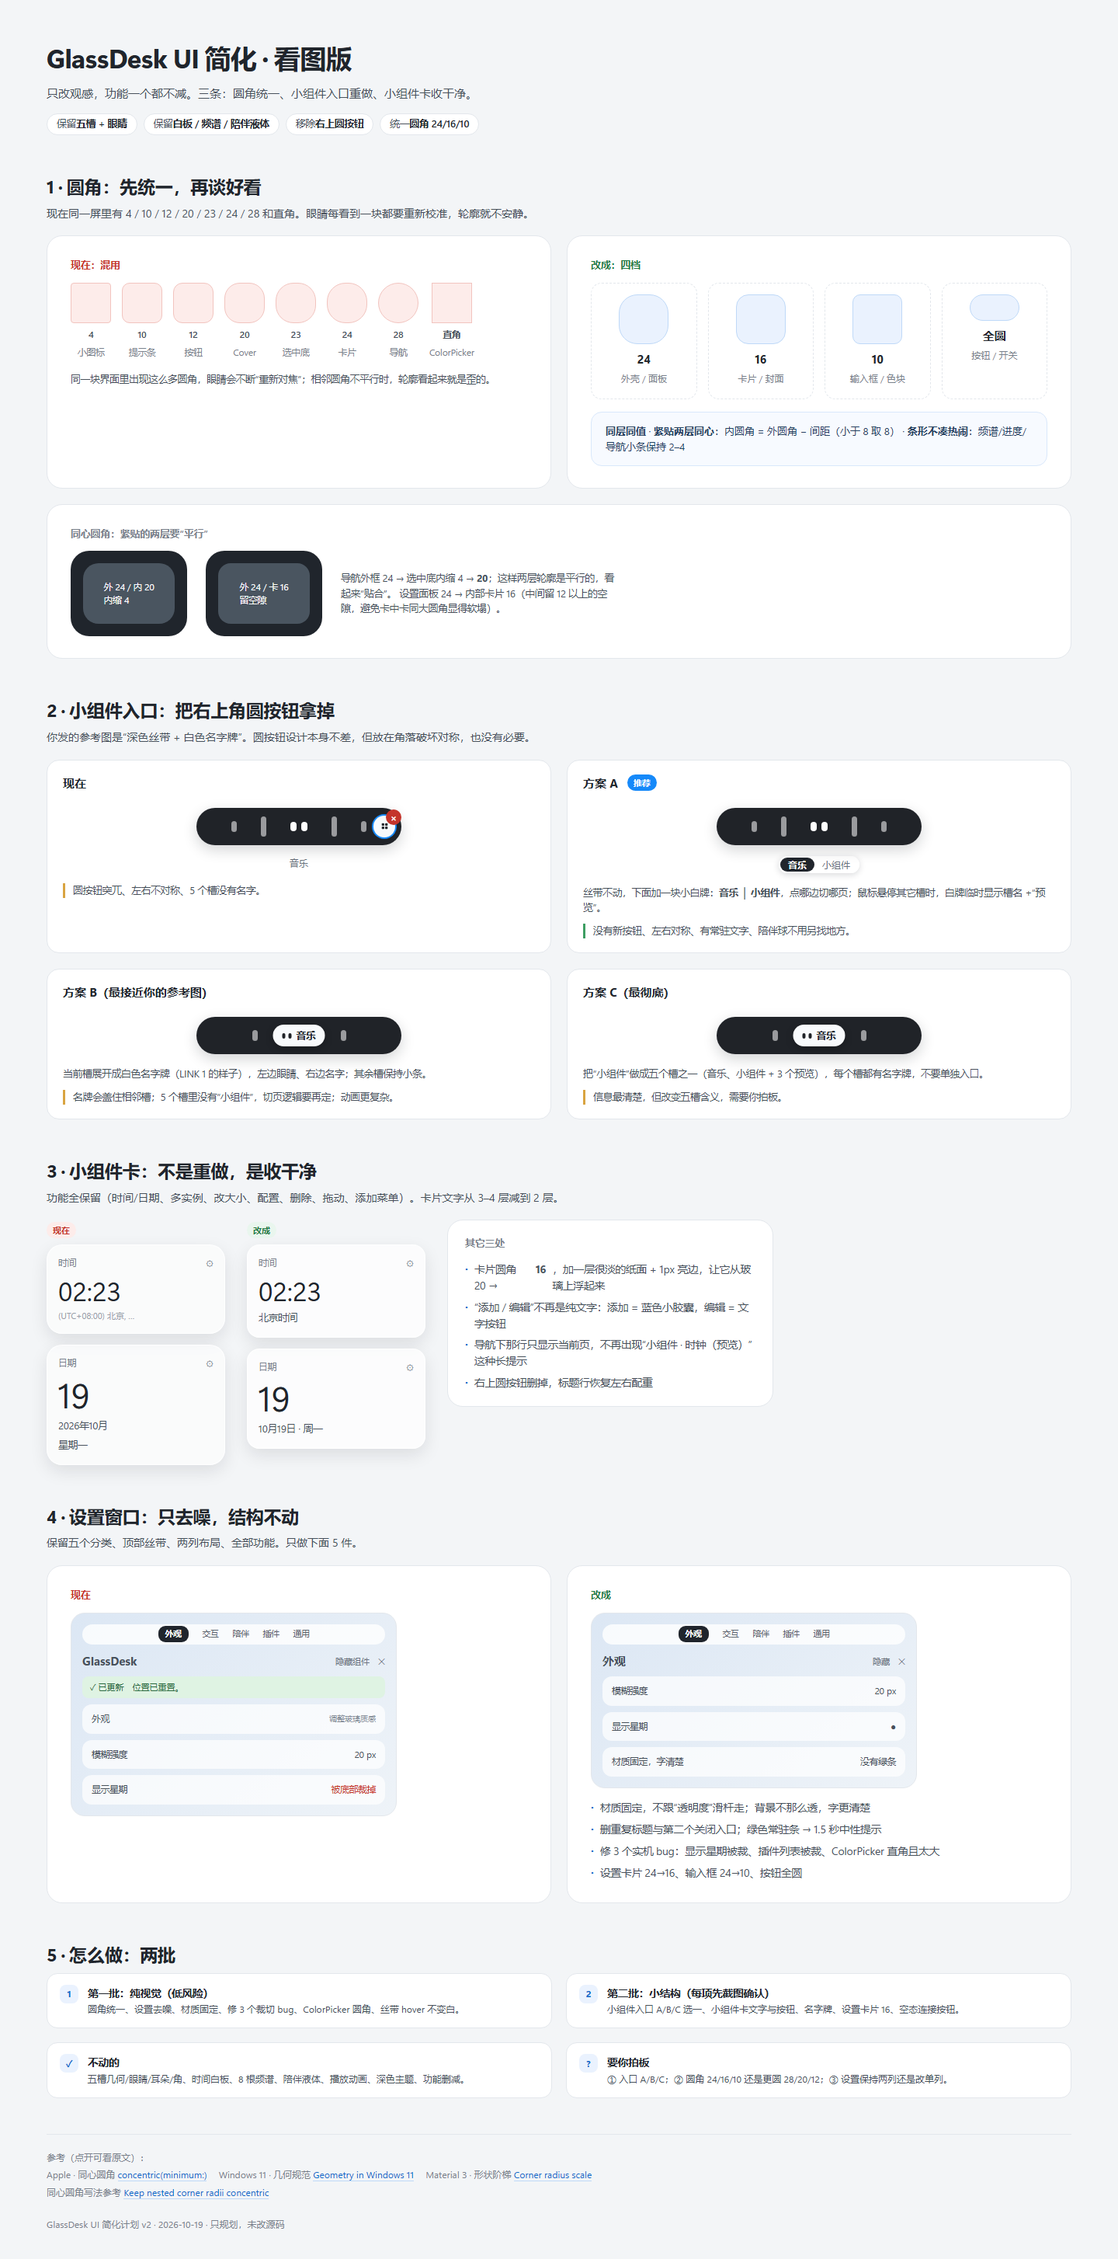
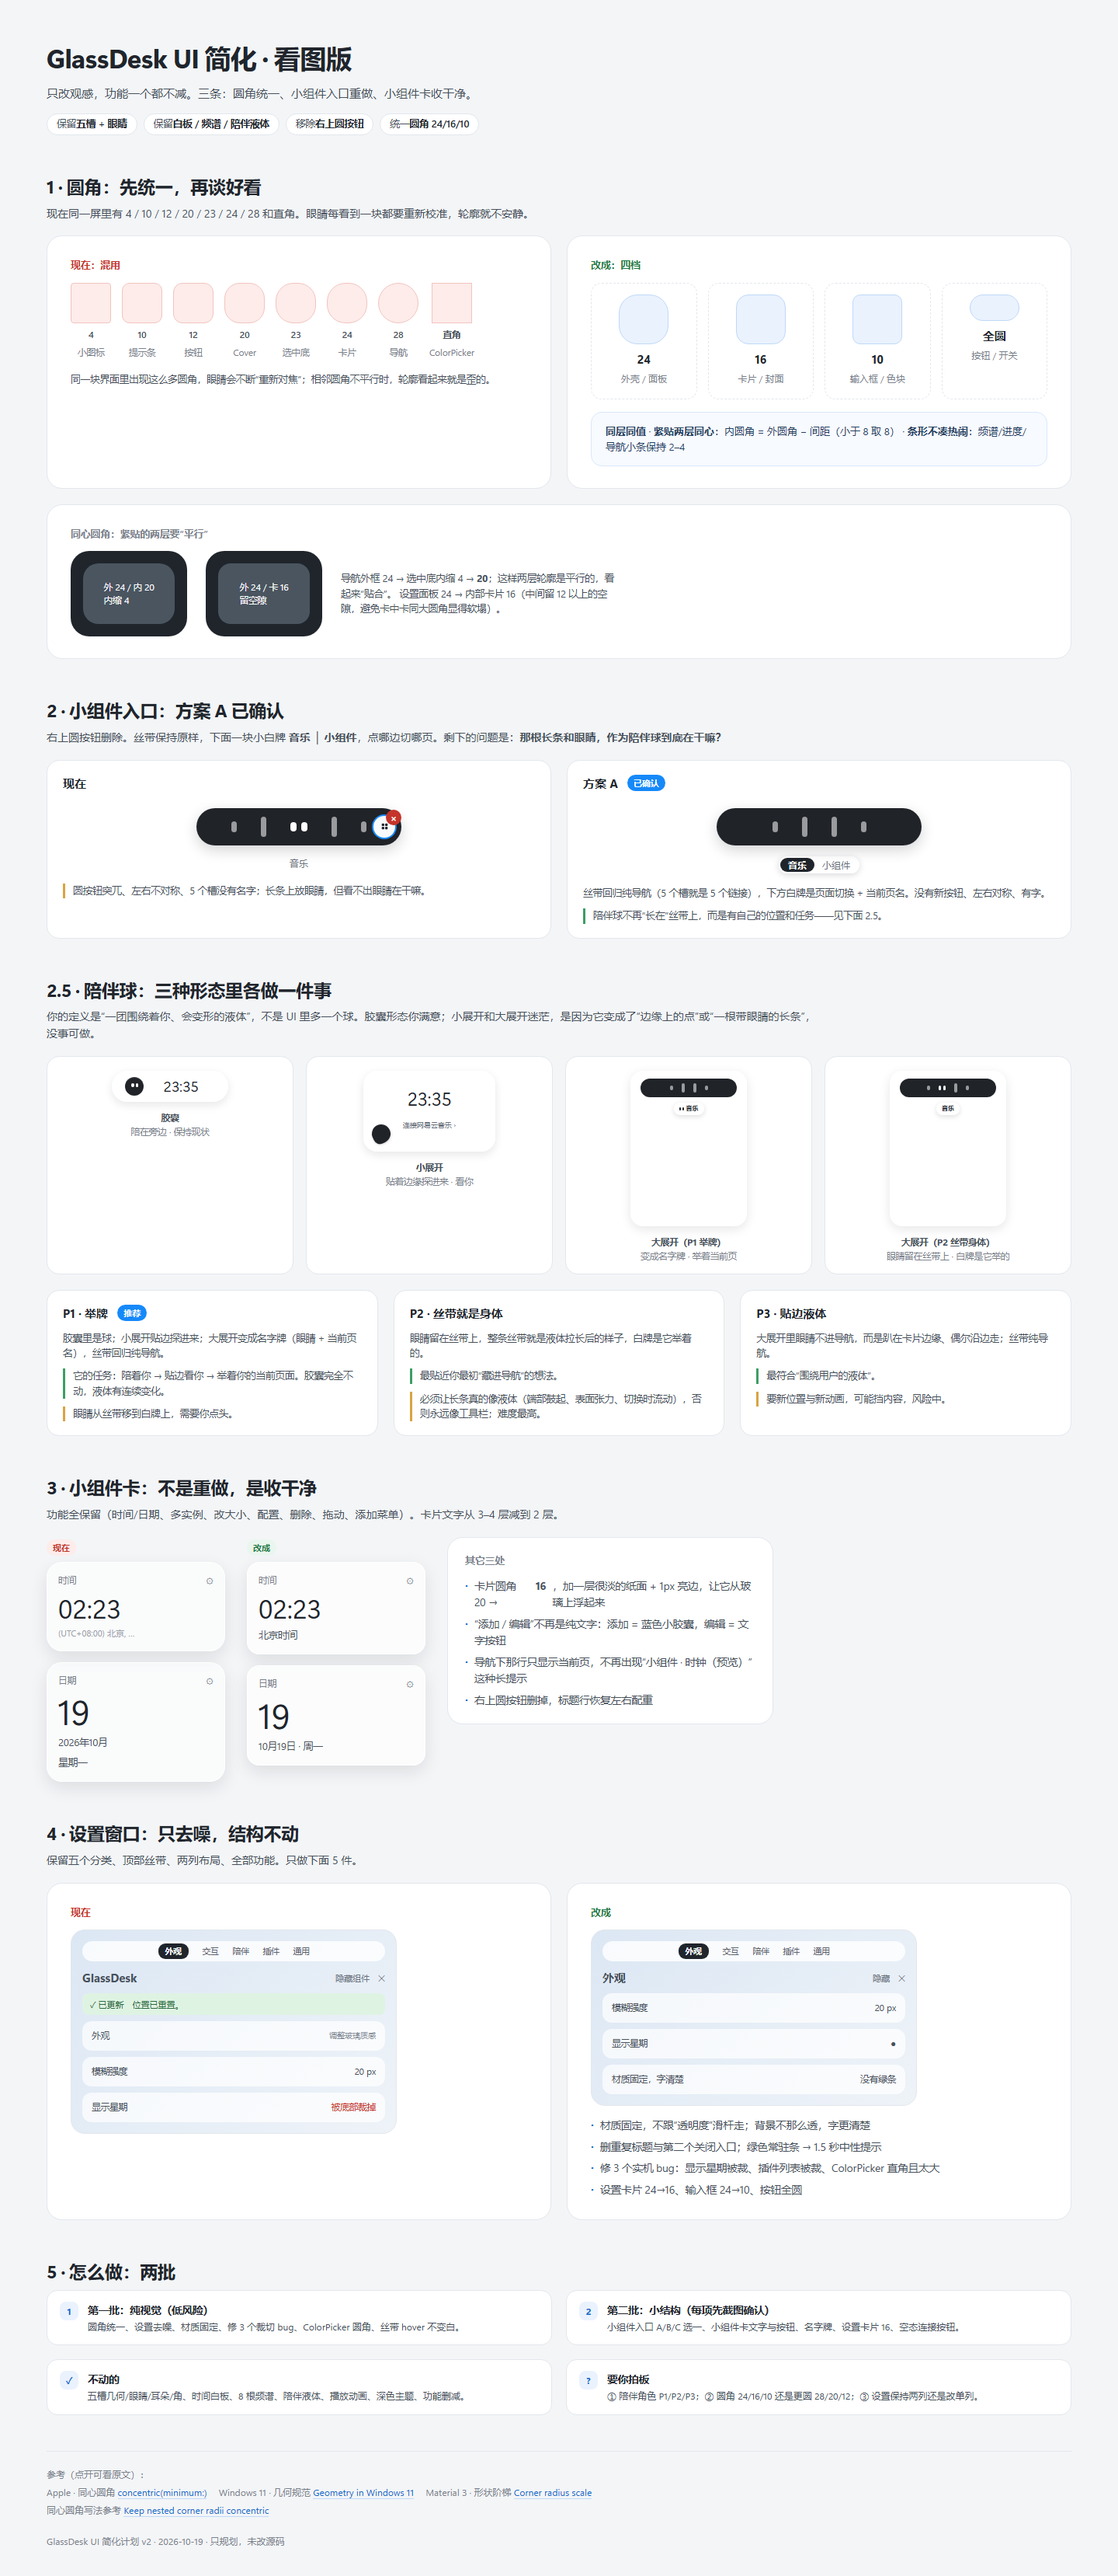
design: add companion role options (P1/P2/P3) to simplified plan

diff --git a/docs/design/ui-simple-onepager.html b/docs/design/ui-simple-onepager.html
@@ -65,6 +65,30 @@ ul.clean li::before{content:"·";color:var(--accent-ink);font-weight:700}
 .plate span{height:18px;line-height:18px;padding:0 10px;border-radius:9px;color:#6B737D}
 .plate span.on{background:#20252C;color:#fff;font-weight:600}
 .pagetext{font-size:12px;color:#6B737D}
+
+/* ===== 陪伴三态 ===== */
+.state-row{display:grid;grid-template-columns:repeat(4,1fr);gap:16px;margin-top:10px}
+.state{background:#fff;border:1px solid var(--line);border-radius:16px;padding:18px 12px 14px;display:flex;flex-direction:column;align-items:center;gap:12px}
+.state .cap{font-size:11.5px;color:var(--ink3);text-align:center;line-height:1.55}
+.state .cap b{color:var(--ink2);font-weight:650}
+.ball{width:24px;height:24px;border-radius:50%;background:#202328;position:relative;flex:none;box-shadow:inset 0 1px 1px rgba(255,255,255,.14)}
+.ball i{position:absolute;top:36%;width:15%;height:20%;border-radius:2px;background:#fff}
+.ball i:first-child{left:34%}.ball i:last-child{left:57%}
+.mini-capsule{width:150px;height:40px;border-radius:20px;background:rgba(255,255,255,.88);border:1px solid #fff;box-shadow:0 4px 12px rgba(15,20,28,.10);display:flex;align-items:center;padding:0 12px 0 16px}
+.mini-capsule .t{flex:1;text-align:center;font-family:var(--display);font-size:19px;color:var(--ink)}
+.mini-peek{width:170px;height:104px;border-radius:18px;background:rgba(255,255,255,.84);border:1px solid #fff;box-shadow:0 4px 12px rgba(15,20,28,.10);position:relative}
+.mini-peek .t{position:absolute;left:0;right:0;top:16px;text-align:center;font-family:var(--display);font-size:24px;color:var(--ink)}
+.mini-peek .a{position:absolute;left:0;right:0;top:62px;text-align:center;font-size:9px;color:#6B737D}
+.mini-peek .cling{position:absolute;left:10px;bottom:10px;width:24px;height:24px;border-radius:50% 50% 50% 35%;background:#202328;transform:rotate(-25deg);box-shadow:0 1px 3px rgba(0,0,0,.2)}
+.mini-details{width:150px;height:200px;border-radius:16px;background:rgba(255,255,255,.84);border:1px solid #fff;box-shadow:0 4px 14px rgba(15,20,28,.10);display:flex;flex-direction:column;align-items:center;padding-top:9px}
+.mini-ribbon{width:124px;height:24px;border-radius:12px;background:#202328;display:flex;align-items:center;justify-content:center;gap:11px}
+.mini-ribbon .slot{width:4px;border-radius:2px;background:rgba(255,255,255,.55)}
+.mini-ribbon .s1{height:6px}.mini-ribbon .s2{height:12px}
+.mini-ribbon .eyes{display:flex;gap:3px}
+.mini-ribbon .eyes i{width:3px;height:6px;border-radius:2px;background:#fff}
+.mini-plate{margin-top:7px;height:16px;border-radius:8px;background:#fff;display:flex;align-items:center;gap:3px;padding:0 7px;box-shadow:0 2px 6px rgba(15,20,28,.14);font-size:8px;color:#20252C;font-weight:600}
+.mini-plate .eyes{display:flex;gap:2px}
+.mini-plate .eyes i{width:2px;height:4px;border-radius:1px;background:#20252C}
 .tag-active{position:absolute;left:50%;top:50%;transform:translate(-50%,-50%);height:28px;border-radius:14px;background:#F8FAFC;color:#20252C;display:flex;align-items:center;gap:6px;padding:0 12px;font-size:12.5px;font-weight:600;box-shadow:0 3px 10px rgba(0,0,0,.25)}
 .tag-active .eyes{display:flex;gap:4px}
 .tag-active .eyes i{width:4px;height:7px;border-radius:2px;background:#202328}
@@ -165,8 +189,8 @@ ul.clean li::before{content:"·";color:var(--accent-ink);font-weight:700}
     </div>
   </div>
 
-  <h2>2 · 小组件入口：把右上角圆按钮拿掉</h2>
-  <div class="lead">你发的参考图是“深色丝带 + 白色名字牌”。圆按钮设计本身不差，但放在角落破坏对称，也没有必要。</div>
+  <h2>2 · 小组件入口：方案 A 已确认</h2>
+  <div class="lead">右上圆按钮删除。丝带保持原样，下面一块小白牌 <b>音乐 │ 小组件</b>，点哪边切哪页。剩下的问题是：<b>那根长条和眼睛，作为陪伴球到底在干嘛？</b></div>
   <div class="grid2">
     <div class="option">
       <h3>现在</h3>
@@ -179,46 +203,66 @@ ul.clean li::before{content:"·";color:var(--accent-ink);font-weight:700}
         </div>
         <div class="pagetext">音乐</div>
       </div>
-      <p class="con">圆按钮突兀、左右不对称、5 个槽没有名字。</p>
+      <p class="con">圆按钮突兀、左右不对称、5 个槽没有名字；长条上放眼睛，但看不出眼睛在干嘛。</p>
     </div>
     <div class="option">
-      <h3>方案 A <span class="rec">推荐</span></h3>
+      <h3>方案 A <span class="rec">已确认</span></h3>
       <div class="nav-demo">
         <div class="ribbon">
           <div class="slot s1"></div><div class="slot s2"></div>
-          <div class="eyes"><i></i><i></i></div>
           <div class="slot s2"></div><div class="slot s1"></div>
         </div>
         <div class="plate"><span class="on">音乐</span><span>小组件</span></div>
       </div>
-      <p>丝带不动，下面加一块小白牌：<b>音乐 │ 小组件</b>，点哪边切哪页；鼠标悬停其它槽时，白牌临时显示槽名 +“预览”。</p>
-      <p class="pro">没有新按钮、左右对称、有常驻文字、陪伴球不用另找地方。</p>
+      <p>丝带回归纯导航（5 个槽就是 5 个链接），下方白牌是页面切换 + 当前页名。没有新按钮、左右对称、有字。</p>
+      <p class="pro">陪伴球不再“长在”丝带上，而是有自己的位置和任务——见下面 2.5。</p>
     </div>
   </div>
-  <div class="grid2" style="margin-top:20px">
-    <div class="option">
-      <h3>方案 B（最接近你的参考图）</h3>
-      <div class="nav-demo">
-        <div class="ribbon">
-          <div class="slot s1"></div><div class="slot s2"></div>
-          <div class="tag-active"><span class="eyes"><i></i><i></i></span>音乐</div>
-          <div class="slot s2"></div><div class="slot s1"></div>
-        </div>
+
+  <h2>2.5 · 陪伴球：三种形态里各做一件事</h2>
+  <div class="lead">你的定义是“一团围绕着你、会变形的液体”，不是 UI 里多一个球。胶囊形态你满意；小展开和大展开迷茫，是因为它变成了“边缘上的点”或“一根带眼睛的长条”，没事可做。</div>
+  <div class="state-row">
+    <div class="state">
+      <div class="mini-capsule"><div class="ball"><i></i><i></i></div><div class="t">23:35</div></div>
+      <div class="cap"><b>胶囊</b><br>陪在旁边 · 保持现状</div>
+    </div>
+    <div class="state">
+      <div class="mini-peek"><div class="t">23:35</div><div class="a">连接网易云音乐 ›</div><div class="cling"></div></div>
+      <div class="cap"><b>小展开</b><br>贴着边缘探进来 · 看你</div>
+    </div>
+    <div class="state">
+      <div class="mini-details">
+        <div class="mini-ribbon"><div class="slot s1"></div><div class="slot s2"></div><div class="slot s2"></div><div class="slot s1"></div></div>
+        <div class="mini-plate"><span class="eyes"><i></i><i></i></span>音乐</div>
       </div>
-      <p>当前槽展开成白色名字牌（LINK 1 的样子），左边眼睛、右边名字；其余槽保持小条。</p>
-      <p class="con">名牌会盖住相邻槽；5 个槽里没有“小组件”，切页逻辑要再定；动画更复杂。</p>
+      <div class="cap"><b>大展开（P1 举牌）</b><br>变成名字牌 · 举着当前页</div>
+    </div>
+    <div class="state">
+      <div class="mini-details">
+        <div class="mini-ribbon"><div class="slot s1"></div><div class="eyes"><i></i><i></i></div><div class="slot s2"></div><div class="slot s1"></div></div>
+        <div class="mini-plate">音乐</div>
+      </div>
+      <div class="cap"><b>大展开（P2 丝带身体）</b><br>眼睛留在丝带上 · 白牌是它举的</div>
+    </div>
+  </div>
+  <div class="grid3" style="margin-top:20px">
+    <div class="option">
+      <h3>P1 · 举牌 <span class="rec">推荐</span></h3>
+      <p>胶囊里是球；小展开贴边探进来；大展开变成名字牌（眼睛 + 当前页名），丝带回归纯导航。</p>
+      <p class="pro">它的任务：陪着你 → 贴边看你 → 举着你的当前页面。胶囊完全不动，液体有连续变化。</p>
+      <p class="con">眼睛从丝带移到白牌上，需要你点头。</p>
     </div>
     <div class="option">
-      <h3>方案 C（最彻底）</h3>
-      <div class="nav-demo">
-        <div class="ribbon">
-          <div class="slot s1"></div><div class="slot s2"></div>
-          <div class="tag-active"><span class="eyes"><i></i><i></i></span>音乐</div>
-          <div class="slot s2"></div><div class="slot s1"></div>
-        </div>
-      </div>
-      <p>把“小组件”做成五个槽之一（音乐、小组件 + 3 个预览），每个槽都有名字牌，不要单独入口。</p>
-      <p class="con">信息最清楚，但改变五槽含义，需要你拍板。</p>
+      <h3>P2 · 丝带就是身体</h3>
+      <p>眼睛留在丝带上，整条丝带就是液体拉长后的样子，白牌是它举着的。</p>
+      <p class="pro">最贴近你最初“藏进导航”的想法。</p>
+      <p class="con">必须让长条真的像液体（端部鼓起、表面张力、切换时流动），否则永远像工具栏；难度最高。</p>
+    </div>
+    <div class="option">
+      <h3>P3 · 贴边液体</h3>
+      <p>大展开里眼睛不进导航，而是趴在卡片边缘、偶尔沿边走；丝带纯导航。</p>
+      <p class="pro">最符合“围绕用户的液体”。</p>
+      <p class="con">要新位置与新动画，可能挡内容，风险中。</p>
     </div>
   </div>
 
@@ -302,7 +346,7 @@ ul.clean li::before{content:"·";color:var(--accent-ink);font-weight:700}
     <div class="step"><div class="n">1</div><div><b>第一批：纯视觉（低风险）</b><p>圆角统一、设置去噪、材质固定、修 3 个裁切 bug、ColorPicker 圆角、丝带 hover 不变白。</p></div></div>
     <div class="step"><div class="n">2</div><div><b>第二批：小结构（每项先截图确认）</b><p>小组件入口 A/B/C 选一、小组件卡文字与按钮、名字牌、设置卡片 16、空态连接按钮。</p></div></div>
     <div class="step"><div class="n">✓</div><div><b>不动的</b><p>五槽几何/眼睛/耳朵/角、时间白板、8 根频谱、陪伴液体、播放动画、深色主题、功能删减。</p></div></div>
-    <div class="step"><div class="n">?</div><div><b>要你拍板</b><p>① 入口 A/B/C；② 圆角 24/16/10 还是更圆 28/20/12；③ 设置保持两列还是改单列。</p></div></div>
+    <div class="step"><div class="n">?</div><div><b>要你拍板</b><p>① 陪伴角色 P1/P2/P3；② 圆角 24/16/10 还是更圆 28/20/12；③ 设置保持两列还是改单列。</p></div></div>
   </div>
 
   <div class="src">

diff --git a/docs/ui-plan-v2-2026-10-19.md b/docs/ui-plan-v2-2026-10-19.md
@@ -70,27 +70,39 @@
 - Windows 11 几何规范（同层一致、不同尺寸不同半径）：[Geometry in Windows 11](https://learn.microsoft.com/en-us/windows/apps/design/signature-experiences/geometry)
 - Material 3 形状阶梯：[Corner radius scale](https://m3.material.io/styles/shape/corner-radius-scale)
 
-## 3. 小组件入口：把右上圆按钮拿掉之后
+## 3. 小组件入口：方案 A 已确认；剩下的是“陪伴在干嘛”
 
-你发的参考图是“**深色丝带 + 白色名字牌**”，这个方向是对的。三种做法：
+你发的参考图是“**深色丝带 + 白色名字牌**”，方案 A 的结构你已认可：丝带不动，下方一块小白牌 `音乐 │ 小组件`，点哪边切哪页；右上圆按钮删除。
 
-### 方案 A（推荐，改动最小）
-丝带、5 个槽、眼睛全部不动；**丝带下面加一块小白牌**，写 `音乐 │ 小组件`，点哪边切哪页。
-鼠标悬停其它槽时，白牌临时显示那个槽的名字 +“（预览）”，离开后回到当前页。
-**好处**：没有新按钮、左右对称、有了常驻文字、陪伴球不用另找地方。
-**代价**：白牌要占掉现在页名那行（y68，高 20），封面不用移。
+但方案 A 里有一个没回答的问题：**那根长条和眼睛，作为“陪伴球”到底在干嘛？**
+先给结论：**长条不该是陪伴球。长条是导航。** 眼睛放在上面，是因为当初想做“藏进导航”，但藏进去以后它既不像液体，也没有事做。所以下面补一个“陪伴角色”，让它在每种形态里各做一件事。
 
-### 方案 B（最接近你的参考图）
-当前槽**展开成白色名字牌**（就是 LINK 1 那张图的样子），名字牌里左边是眼睛、右边是名字，其余槽保持小条。
-**好处**：最像你想要的丝带链接感，陪伴和名字合成一个东西。
-**代价**：名字牌会盖住相邻槽；5 个槽里没有“小组件”，切页逻辑还要再定；动画更复杂。
+### 3.1 陪伴球在三种形态里各做一件事（新增，待你选）
 
-### 方案 C（最彻底）
-把“小组件”做成五个槽之一（音乐、小组件 + 3 个预览），每个槽都有名字牌，**不要单独入口**。
-**好处**：信息最清楚、彻底对称。
-**代价**：改变五槽的含义，等于改产品结构，需要你明确点头。
+先对齐定义（我理解的）：
+- 陪伴不是“UI 里有一个球”，而是一团会变形、贴着你、围着内容活动的液体；球只是它休息时的样子。
+- 胶囊状态你满意，因为它是“陪在旁边的小家伙”，不是工具栏的一部分。
+- 小展开/大展开不满足，因为它变成了“边缘上的一个点”或“一根带眼睛的长条”，看不出它在干嘛。
 
-**我的建议**：先做 A。它解决“拥挤 + 突兀 + 没字”三个问题，且不动你定的眼睛设计；喜欢参考图的话，再在 A 的基础上迭代到 B。
+**P1（推荐）· 举牌**
+- 胶囊：保持现在的球（完全不动）。
+- 小展开：贴在卡片边缘探进来，眼睛看向内容（现在的位置逻辑保留，只强化“贴边”的感觉）。
+- 大展开：它变成名字牌——眼睛 + 当前页名（音乐/小组件），丝带回归纯导航。
+- 它做的事：陪着你 → 贴边看你 → 举着你的当前页面。
+- 好处：胶囊不动；液体有连续变化（球→贴边→牌）；丝带不再背“陪伴”的锅；白牌和陪伴合成一个东西。
+- 代价：眼睛从丝带移到白牌上（需要你点头）；丝带只剩 5 个槽。
+
+**P2 · 丝带就是身体**
+- 眼睛留在丝带上，整条丝带就是液体拉长后的样子，白牌是它“举”着的。
+- 好处：最贴近你最初“藏进导航”的想法。
+- 代价：必须让长条真的像液体（端部鼓起、表面张力、切换时流动），否则永远像工具栏；难度最高。
+
+**P3 · 贴边液体**
+- 大展开里眼睛不进导航，而是趴在卡片边缘、偶尔沿边走；丝带纯导航。
+- 好处：最符合“围绕用户的液体”。
+- 代价：要新位置与新动画，可能挡内容，风险中。
+
+**我的建议**：先 P1。它用最小改动回答“陪伴在干嘛”，胶囊完全不动；如果后面你想要“丝带即身体”，再迭代 P2。
 
 ## 4. 小组件板：不是重做，是把“没做好”的地方收干净
 
@@ -128,17 +140,17 @@
 | 批次 | 内容 | 风险 |
 |---|---|---|
 | 1（纯视觉） | 圆角统一、设置去噪（标题/关闭/提示/文案）、设置材质固定、修 3 个裁切 bug、ColorPicker 圆角、丝带 hover 不变白 | 低；不改结构 |
-| 2（小结构） | 小组件入口（A/B/C 选一）、小组件卡文字/按钮、名字牌、设置卡片 16、空态连接按钮 | 中；每项改前给你截图确认 |
+| 2（小结构） | 方案 A 的名字牌、陪伴角色 P1/P2/P3 选一、小组件卡文字/按钮、设置卡片 16、空态连接按钮 | 中；每项改前给你截图确认 |
 
 每批：改完构建 → 启动预览截图给你 → 你点头再进下一批；Git 每批一个独立 commit，随时可回退。
 
 ## 8. 我不做的
 
-五槽几何/眼睛/耳朵/角、时间白板、8 根频谱、陪伴液体移动、播放/暂停动画、深色主题、功能删减、设置结构重排、装字体、加第三方库。
+五槽几何、耳朵/角、时间白板、8 根频谱、陪伴液体移动（P2/P3 的新运动除外）、播放/暂停动画、深色主题、功能删减、设置结构重排、装字体、加第三方库。
 
 ## 9. 需要你拍板的 3 件事
 
-1. **小组件入口**：A 丝带下名字牌（推荐）/ B 当前槽展开成名字牌 / C 小组件变成五槽之一。
+1. **陪伴角色**：P1 举牌（推荐）/ P2 丝带就是身体 / P3 贴边液体。（小组件入口已按方案 A 确认，不再问 A/B/C。）
 2. **圆角四档**：24 / 16 / 10 / 全圆，接受吗？想更圆可以改成 28 / 20 / 12 / 全圆。
 3. **设置布局**：保持两列（改动小，推荐）还是改单列（更像 macOS，但工作量和风险都翻倍）。
 
